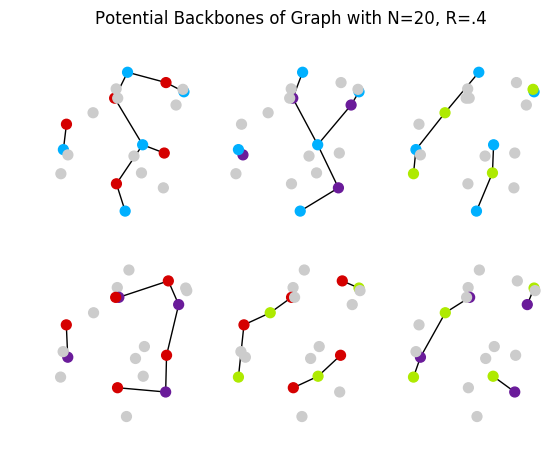
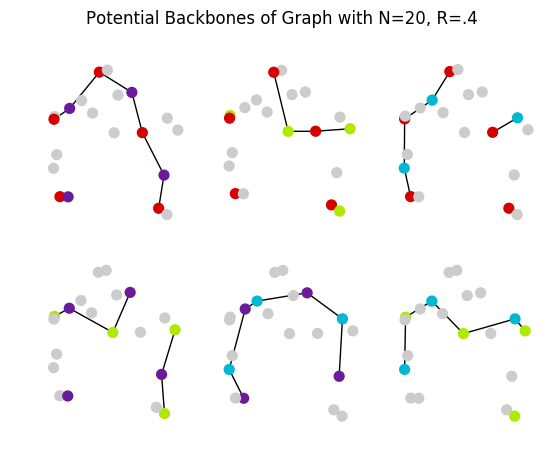
figured out how to make the backbone graphs look good thank god

diff --git a/main_drivers/benchmarks.py b/main_drivers/benchmarks.py
@@ -2,7 +2,7 @@ from rgg.coloring import compute_ordering, color_graph, valid_coloring
 from rgg.generate_graphs import unit_square_graph
 from rgg.generate_graphs import unit_disc_graph
 from rgg.generate_graphs import unit_sphere_graph
-from rgg.generate_graphs import adjacency_list_from_node_list
+from rgg.backbone import find_potential_backbones, largest_backbone
 from time import process_time
 
 benchmarks = [
@@ -21,27 +21,80 @@ benchmarks = [
     (13, 64000,   128,"Sphere", unit_sphere_graph)
 ]
 
+def draw_backbone(backbones, positions, coloring, A, N):
+    import matplotlib.pyplot as plt
+    import networkx as nx
+    plt.clf()
+    fig, axes = plt.subplots(1, 2)
+    x = 0
+    y = 0
+    colors = ['#6A1B9A', '#D50000', '#AEEA00', '#00B0FF', '#00B8D4', '#00BFA5', '#00C853', '#DD2C00', '#FFFF00']
+
+    first_round=[]
+    second_round=[]
+    for current_backbone in backbones:
+        G = nx.Graph()
+        zorder={}
+        current_backbone_set = set(filter(lambda x: x != False, map(lambda c: c[0] if c[1] != False else False, enumerate(current_backbone))))
+        for node_index, node in enumerate(current_backbone):
+            if node == False:
+                G.add_node(node_index)
+                zorder[node_index] = -1
+                continue
+            G.add_node(node_index)
+            zorder[node_index] = 21
+            for neighbor in node:
+                if neighbor in current_backbone_set:
+                    G.add_edge(node_index, neighbor)
+
+        pos = {}
+        for node_index, position in enumerate(positions):
+            pos[node_index] = position
+
+        color_map = [colors[coloring[x]%len(colors)] if current_backbone[x] != False else "#CCCCCC" for x in G.node]
+        nx.draw(G, pos=pos, node_color=color_map, ax=axes[x], node_size=2500/(N*N))
+        pathcollection = nx.draw_networkx_edges(G, pos=pos, zorder=20, node_color=color_map, ax=axes[x], node_size=2500/(N*N))
+        pathcollection.zorder = 20
+        x = x + 1
+    plt.suptitle("Two Biggest Backbones of RGG N=%d, A=%d" % (N, A))
+    plt.savefig("../results/backbone/backbone_%d_%d.png" % (N, A), bbox_inches="tight")
+
 with open("../results/shared/coloring/coloring_data.csv", "w+") as f:
     f.write("Benchmark,N,A,R,Topology,Avg. Degree,Min Degree,Max Degree,When Removed,Colors,Largest Color,Runtime\n")
     for benchmark, N, A, topology, fn in benchmarks:
         print("Running benchmark %d" % benchmark)
         start = process_time()
-        adj_list,R = fn(N, A, return_radius=True)
+        adj_list,positions, R = fn(N, A, return_radius=True, return_positions=True)
         ordering, degrees_when_removed = compute_ordering(adj_list)
         coloring = color_graph(ordering, adj_list)
+        potential_backbones = find_potential_backbones(coloring, adj_list)
+
+        largest_backbones = list(map(largest_backbone, potential_backbones))
+
         end = process_time()
+
+        largest_backbone_adj_lists = []
+        for potential_backbones2, backbone in zip(potential_backbones, largest_backbones):
+            backbone_set = set(backbone)
+            potential_backbones2 = list(map(lambda item: item[1] if item[0] in backbone_set else False, enumerate(potential_backbones2)))
+            largest_backbone_adj_lists.append(potential_backbones2)
+
+        flatten = lambda l: [item for sublist in l for item in sublist]
+        largest_backbone_adj_lists.sort(key=lambda backbone: -len(flatten(filter(lambda n: n!=False,backbone))))
+        draw_backbone(largest_backbone_adj_lists[:2], positions, coloring, N, A)
+
         num_colors = max(coloring)
         max_degree_when_removed = max(degrees_when_removed)
         min_degree = min(map(lambda node: len(node),adj_list))
         max_degree = max(map(lambda node: len(node),adj_list))
         avg_degree = sum(map(lambda node: len(node),adj_list))/len(adj_list)
         color_counts = [0 for _ in range(num_colors + 1)]
+
         for color in coloring:
             color_counts[color] = color_counts[color] + 1
         largest_color = max(color_counts)
         runtime = end - start
-        if not valid_coloring(coloring, adj_list):
-            raise "OUCH!"
+
         f.write("%d,%d,%d,%.6f,%s,%d,%d,%d,%d,%d,%d,%.6f" % (benchmark, N, A, R, topology,avg_degree,min_degree,max_degree, max_degree_when_removed, num_colors,largest_color, runtime))
         f.write("\n")
         f.flush()

diff --git a/main_drivers/walkthrough.py b/main_drivers/walkthrough.py
@@ -1,6 +1,6 @@
 from rgg.generate_graphs import unit_square_graph
 from rgg.coloring import compute_ordering, color_graph
-from rgg.backbone import find_backbones, largest_backbone
+from rgg.backbone import find_potential_backbones, largest_backbone
 import pandas as pd
 import numpy as np
 import networkx as nx
@@ -154,13 +154,6 @@ def draw_colored(adj_list, positions, coloring):
     nx.draw(G, pos=pos, node_color=color_map)
     plt.savefig("../results/walkthrough/final_colored.png", bbox_inches="tight")
 
-def draw_backbone(backbone, positions, coloring):
-    plt.clf()
-
-    plt.title("Backbone of a WSN with N=%d, A=%d" % (N, A))
-    nx.draw(G, pos=pos, node_color=color_map)
-    plt.savefig("../results/backbone/backbone_display.png", bbox_inches="tight")
-
 def draw_all_backbones(backbones, positions, coloring):
     fig, axes = plt.subplots(2, 3)
     x = 0
@@ -223,7 +216,7 @@ def draw_largest_backbones(backbones, positions, coloring):
             y = y + 1
         else:
             x = x + 1
-    plt.suptitle("Largest Backbones of Graph with N=20, R=.4")
+    plt.suptitle("Largest Backbones Sorted By # Edges of Graph with N=20, R=.4.")
     plt.savefig("../results/walkthrough/largest_backbones.png", bbox_inches="tight")
 
 
@@ -238,7 +231,7 @@ if __name__ == "__main__":
     draw_ordering_graph(ordering_states, positions)
     draw_coloring_graph(adj_list, ordering, positions, coloring)
 
-    backbones = find_backbones(coloring, adj_list)
+    backbones = find_potential_backbones(coloring, adj_list)
     draw_all_backbones(backbones, positions, coloring)
 
     largest_backbones = list(map(largest_backbone, backbones))
@@ -247,5 +240,8 @@ if __name__ == "__main__":
         backbone_set = set(largest_backbone)
         potential_backbones = list(map(lambda item: item[1] if item[0] in backbone_set else False, enumerate(potential_backbones)))
         largest_backbone_adj_lists.append(potential_backbones)
+
+    flatten = lambda l: [item for sublist in l for item in sublist]
+    largest_backbone_adj_lists.sort(key=lambda backbone: -len(flatten(filter(lambda n: n!=False,backbone))))
 
     draw_largest_backbones(largest_backbone_adj_lists, positions, coloring)

diff --git a/lib/rgg/generate_graphs/common.py b/lib/rgg/generate_graphs/common.py
@@ -43,6 +43,9 @@ def connect_nodes(nodes, R):
 def generate_graph(N, A, radius_function, point_generation_function, return_positions=False, return_radius=False):
 	R = radius_function(N, A)
 	nodes = point_generation_function(N)
+	if return_positions and return_radius:
+		dims = list(map((lambda node: node.dims), nodes))
+		return connect_nodes(nodes, R), dims, R
 	if return_positions:
 		dims = list(map((lambda node: node.dims), nodes))
 		return connect_nodes(nodes, R), dims

diff --git a/lib/rgg/backbone/pair_colorings.py b/lib/rgg/backbone/pair_colorings.py
@@ -20,7 +20,7 @@ def possible_backbones(top_colors):
     from itertools import combinations
     return list(combinations(top_colors, r=2))
 
-def find_backbones(coloring, adj_list):
+def find_potential_backbones(coloring, adj_list):
     top_colors = top_four_colors(color_frequencies(coloring))
     backbone_colors = possible_backbones(top_colors)
 
